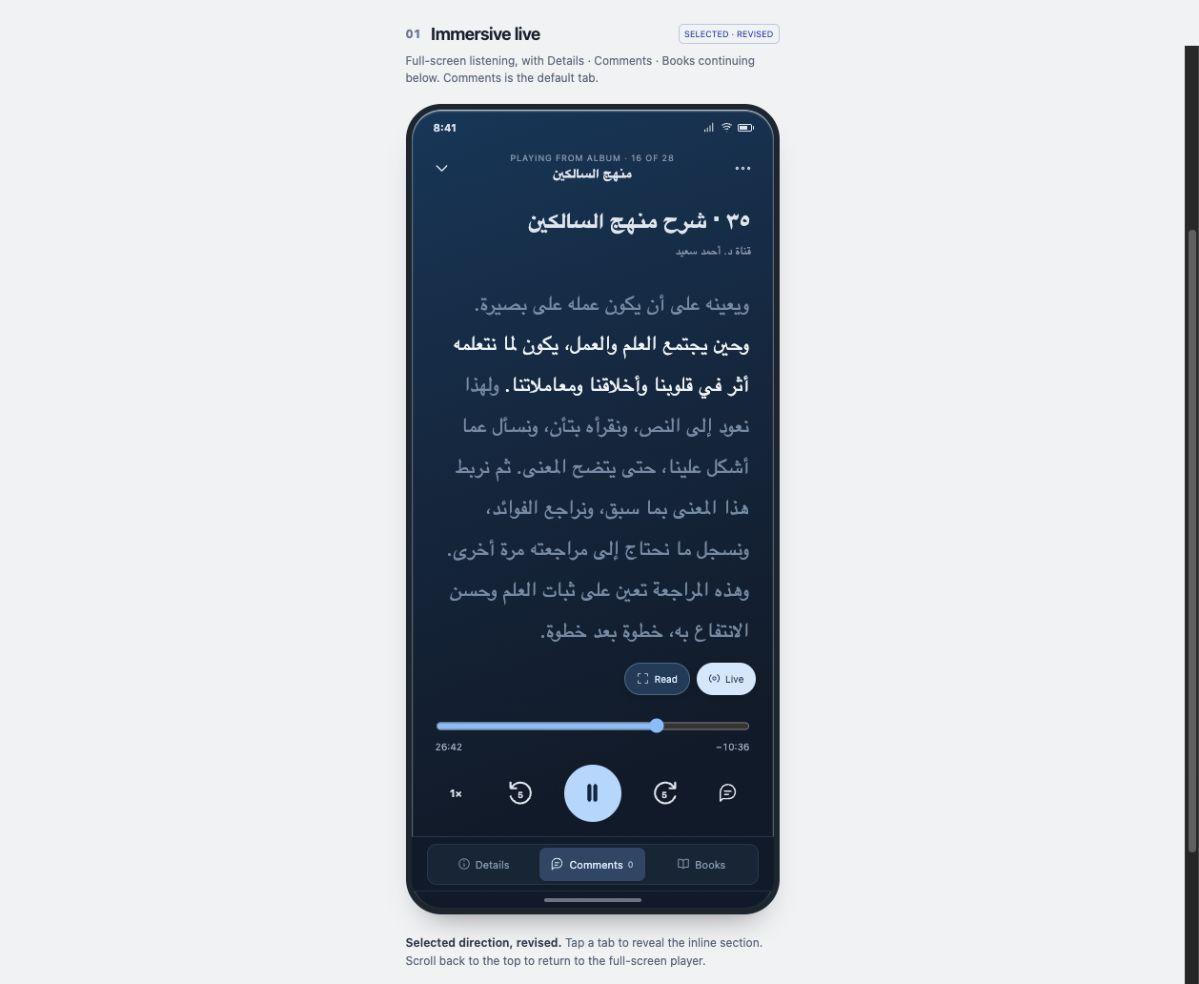
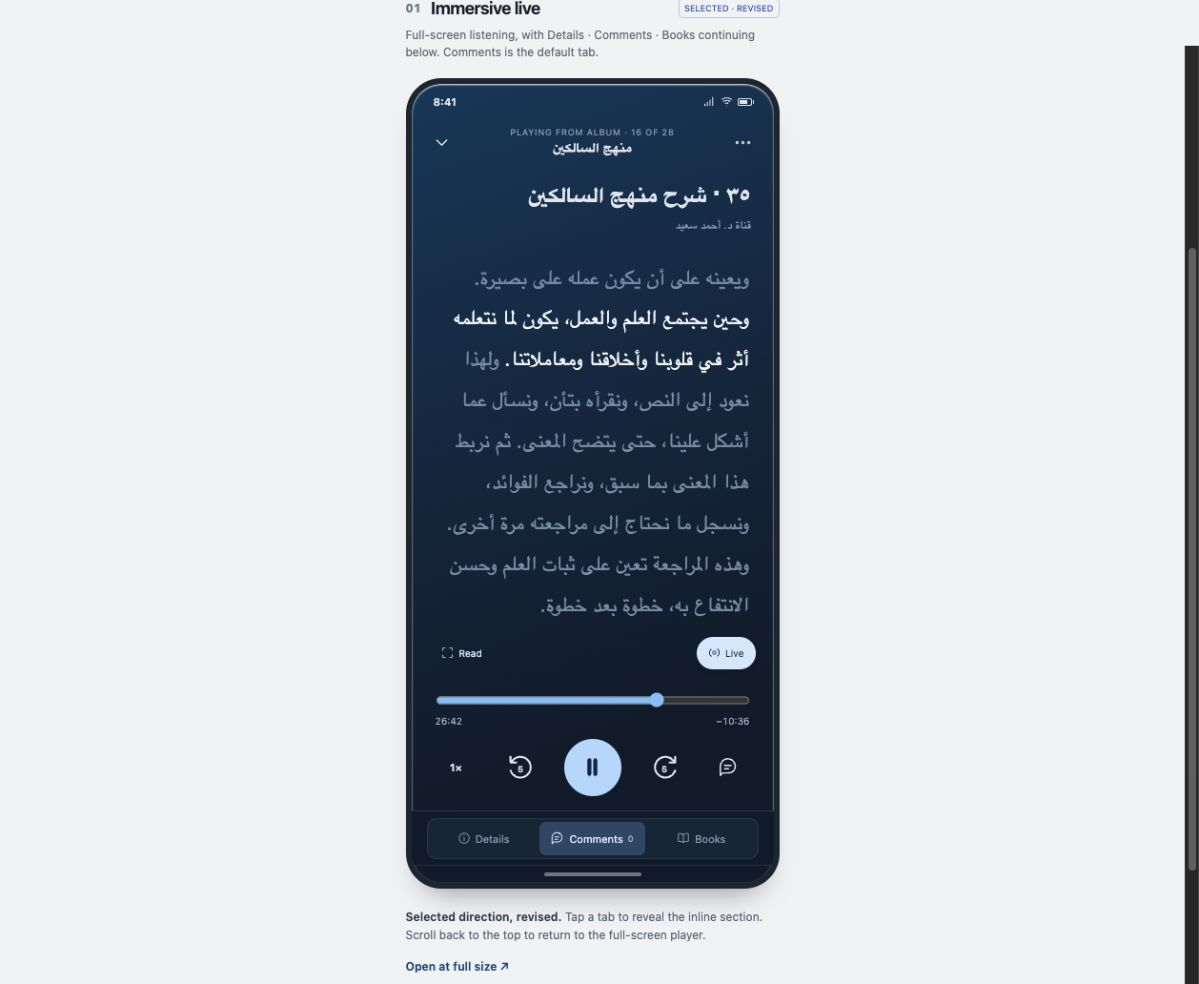
Record preview update and revised audio workshop

diff --git a/apps/expo-app/app.config.ts b/apps/expo-app/app.config.ts
@@ -1,6 +1,6 @@
 import type { ExpoConfig } from "expo/config";
 
-export const UPDATE_VERSION = "2026.09.25";
+export const UPDATE_VERSION = "2026.09.29";
 
 const appVariant =
 	process.env.APP_VARIANT ??

diff --git a/artifacts/audio-screen-workshop/README.md b/artifacts/audio-screen-workshop/README.md
@@ -4,11 +4,23 @@ Three interactive design candidates for the Android audio screen. Open `index.ht
 
 ## Directions
 
-1. **Immersive live** — evolve the current transcript-led player with a stable title, explicit Read action, blue transport, and visible destinations for details, books, and comments. Recommended starting point because it retains the current listening hierarchy.
+1. **Immersive live (selected, revised)** — retain a full-screen transcript-led player, followed by inline Details, Comments, and Books on the same scrolling page.
 2. **Reading room** — make the selectable transcript the main screen, with playback in a compact bottom dock. Best suited to reading and annotating while listening.
 3. **Lesson workspace** — put transcript, comments, and books behind visible tabs while retaining the lesson and transport above them. Improves discovery of related content at the cost of transcript space.
 
 Direct views: `?option=1`, `?option=2`, and `?option=3`.
+
+## Selected direction revision
+
+The user selected direction 01 and requested another preview with these changes:
+
+- The player and the supporting sections share one outer scroll surface. The transcript keeps its own independent scroll area.
+- Tabs appear at the lower edge of the initial full-screen player: **Details · Comments · Books**. Comments is selected by default.
+- Selecting a tab scrolls its panel into view with approximately 160 pixels of player context retained above it. Further scrolling lets the tabs stick to the top of the lesson viewport. Scrolling back up restores the full-screen player.
+- Details, Comments, and Books render inline, including comments opened from transport or selected transcript text.
+- Saved/Download, Transcribed/Transcribe, and Copy are in Details. The transport sits lower and the transcript gains vertical space.
+- The Live transcript heading row is removed. Read is a ghost button on the far left of the bottom transcript action row; flexible space separates it from Live on the far right. Live appears after manual transcript scrolling.
+- The original three-way comparison remains available at `initial-comparison.html`. Options 02 and 03 remain available in the current comparison.
 
 ## Grounding
 
@@ -35,8 +47,10 @@ The comparison selector shows ready, loading, and missing transcript states. A g
 - Saved the review image at `assets/comparison.png`.
 - Native Android behavior and real media services are outside this HTML workshop's validation.
 
+Revision checks verified the default Comments tab and tab order, inline reveal without a section modal, utility actions in Details, independent transcript scroll, outer-page scrolling, return to the full-screen player, and inline local comment submission. The revised screenshots are `assets/revised-player.png` and `assets/revised-details.png`.
+
 ## Preview lifecycle
 
 The local Python preview server was started for this workshop on port 8849 (execution session 15492). Keep it available during review. To restart: `python3 -m http.server 8849 --bind 127.0.0.1 --directory artifacts/audio-screen-workshop` from the repository root. Stop only this preview server after a final choice and implementation verification.
 
-No design has been selected for production. Follow-up feedback should refine or combine these numbered candidates.
+Direction 01 is selected. The current deliverable is its revised HTML preview for user review before native implementation.

diff --git a/.brain/tasks/2026-09-29-audio-screen-workshop.md b/.brain/tasks/2026-09-29-audio-screen-workshop.md
@@ -1,6 +1,6 @@
 # Task: Audio Screen Design Workshop
 
-- Status: Workshop ready — awaiting design direction
+- Status: Direction 01 selected — revised preview ready for review
 - Created: 2026-09-29
 - Updated: 2026-09-29
 - Artifact: [Audio screen comparison](../../artifacts/audio-screen-workshop/index.html)
@@ -16,9 +16,23 @@ Use the user's recording of the current Android audio experience and the latest 
 - [x] Review the recording's key visual states and relevant audio source/Brain context.
 - [x] Build three interactive candidates: Immersive live, Reading room, and Lesson workspace.
 - [x] Verify the rendered layouts and central local interactions in the in-app browser.
-- [ ] Capture the user's preferred direction or combination, then refine or implement according to their instruction.
+- [x] Capture the user's selection of direction 01 and refine the HTML preview.
+- [ ] Review the revised preview with the user before proceeding to native implementation.
 
-The recommendation is candidate 01 as the closest evolution of the current experience. This is a review recommendation, not a selected product decision.
+## Accepted refinements
+
+- Direction 01 retains the full-screen player at the top of a continuous scrolling page.
+- Scroll gestures outside the transcript move the lesson page. Transcript gestures scroll its text independently.
+- Inline tabs below the player are ordered **Details · Comments · Books**, with Comments selected by default. They do not open section modals.
+- Tapping a tab from the player scrolls the inline section into view while retaining some transport context. Continuing to scroll moves through the content; scrolling back to the top restores the full-screen player.
+- Saved/Download, Transcribed/Transcribe, and Copy move into Details, freeing space for the transcript and lowering the transport controls.
+- Remove the Live transcript header row. Place Read as a ghost button at the far left of the transcript's bottom action row, with flexible space before Live at the far right. Live retains its return-to-follow behavior after manual transcript scrolling.
+
+The original comparison is preserved in `artifacts/audio-screen-workshop/initial-comparison.html`. The active preview is `index.html?option=1`.
+
+## Revision verification
+
+Browser checks covered default tab/order, tab-triggered inline reveal, Details actions, independent transcript scrolling, outer-page scrolling, restoration of the full-screen player, and local comment submission without a section modal. Screenshots and the detailed scope are recorded in the artifact README. Native implementation is not part of this preview revision.
 
 ## Brain impact
 

diff --git a/.brain/tasks/2026-09-29-media-download-controls-and-audio-rename.md b/.brain/tasks/2026-09-29-media-download-controls-and-audio-rename.md
@@ -6,3 +6,4 @@
 - Plan: [Media Download Controls and Audio Rename](../plans/2026-09-29-feature-media-download-controls-and-audio-rename.md)
 - Scope: Explicit download-only controls for audio, PDF, and video; a separate searchable audio title override with rename UI; direct full-transcription and copy-full-transcript actions on the audio screen.
 - Implementation: Audio/PDF/video download controls, audio title override and search, and direct full-transcription/copy controls implemented. Prisma client generated. The additive column was pushed to production and verified against the default database target; `db:migrate` could not proceed because Prisma requested a reset for existing drift. Android audio detail and Rename keyboard layout were verified on a device/emulator. A failed Rename save keeps the form and typed value with inline error; raw Prisma diagnostics are replaced with safe text and handled fetch failures no longer call `console.error` in Metro. The Webpack production build deployed successfully after the Turbopack font-resolution failure. Production tRPC rename route responds, and media 1280 now has title override `٣٥ - كتاب الحج`; getBlog and search were verified against production. On the Android emulator, PDF and video downloaded and opened, and audio Download reached Saved. Expo FileSystem rejected final PDF promotion under Android/media; completed media now use app-private document storage, with read fallback for previously saved scoped files. Focused tests pass. Full Expo typecheck remains blocked by pre-existing workspace and Bun type errors.
+- Delivery: Android preview OTA `2026.09.29` published to runtime `1.0.111` (EAS update group `fd21bb4e-1e1b-46f8-b122-d46a597e1bbf`). The installed preview build is runtime `1.0.111`; recent changes do not require a new native binary. The post-publish Sentry source-map upload failed with HTTP 401 from its local token, so readable crash source maps for this update remain unverified. No finished production-channel build was found in this EAS project.

diff --git a/.brain/tasks/in-progress.md b/.brain/tasks/in-progress.md
@@ -1,7 +1,7 @@
 # In Progress
 
 ### [Audio Screen Design Workshop](2026-09-29-audio-screen-workshop.md)
-- Status: Workshop ready — awaiting design direction
+- Status: Direction 01 selected — revised preview ready for review
 
 ### [Media Download Controls, Audio Rename, and Transcript Actions](2026-09-29-media-download-controls-and-audio-rename.md)
 - Status: In Progress
